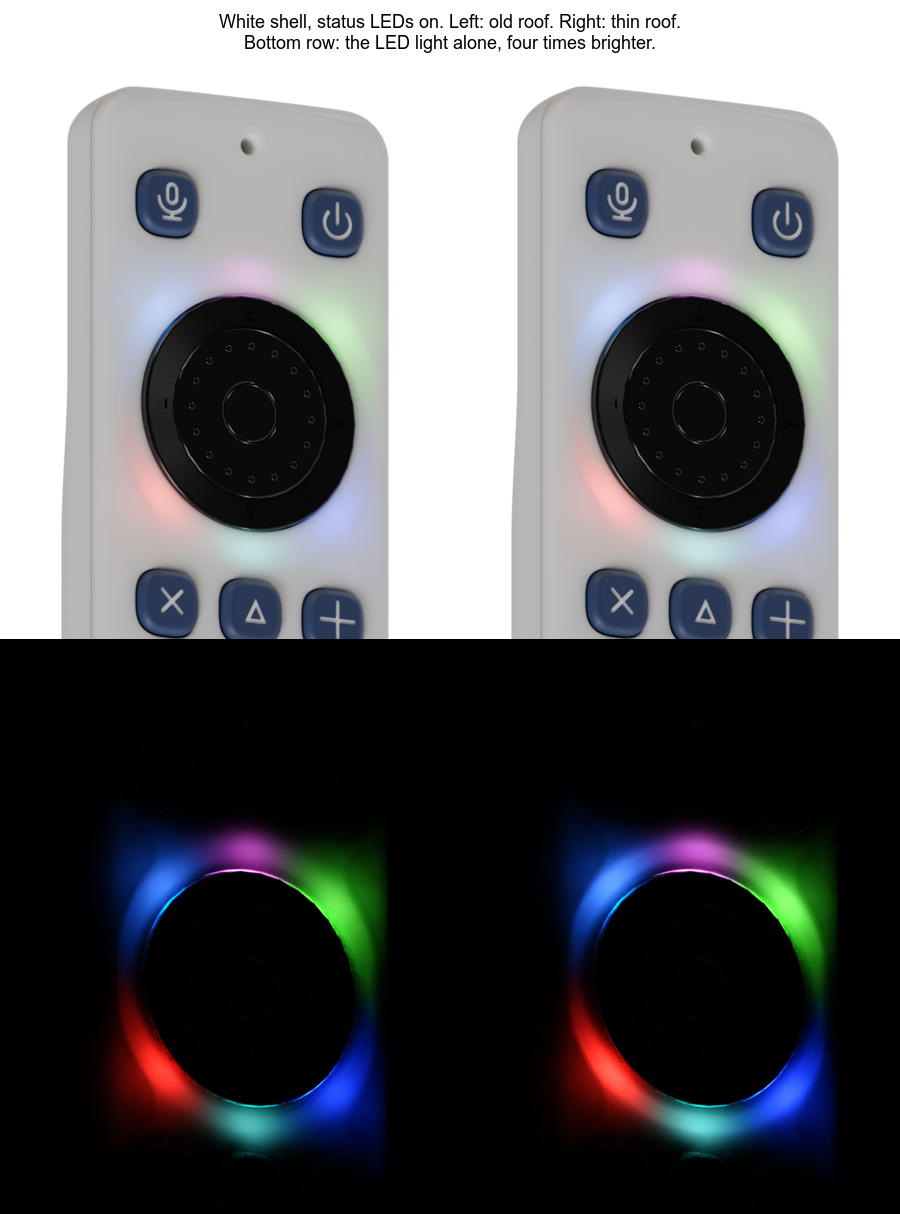
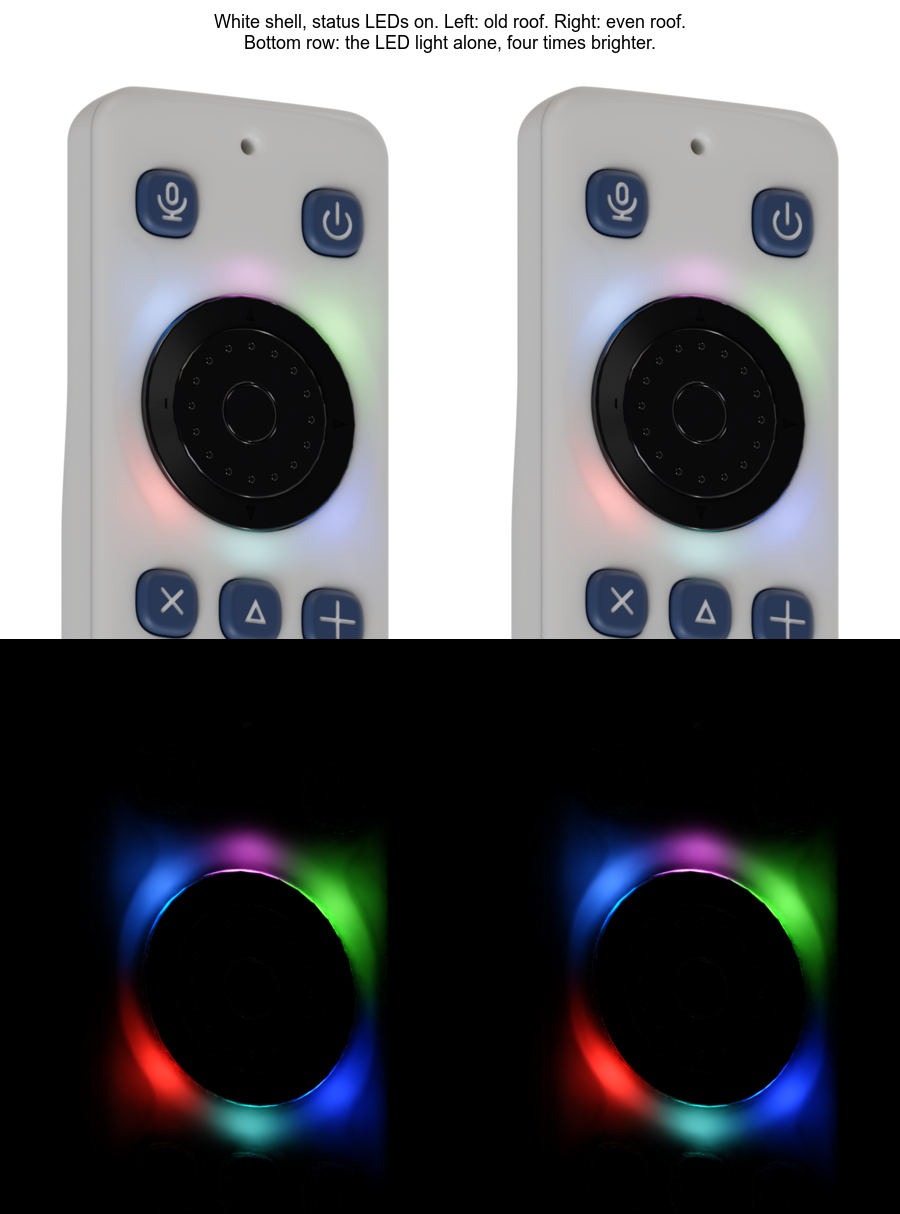
docs(case): re-render the white front and the old vs even roof glow comparison for the 0.8 mm LED ring roof, restamp the case renders it leaves unchanged

diff --git a/case/README.md b/case/README.md
@@ -161,12 +161,12 @@ A white filament also works. The roof over the LED ring channel is `LED_RING_FAC
 </p>
 <p align="center"><sub>White front with the status LEDs on</sub></p>
 
-A white shell scatters the light inside the plastic, so a thinner roof lets more LED light through. The comparison shows the glow through the old roof and through the thin roof.
+A white shell scatters the light inside the plastic, so the roof thickness sets how much LED light gets through. The comparison shows the glow through the old roof and through the even roof.
 
 <p align="center">
-  <img alt="Two white c6remote fronts with the status LEDs on. The front with the thin roof over the LED ring channel shows a brighter and more even ring. A second row shows only the LED light for each front" src="../docs/readme-assets/case-white-roof-glow.png" width="450">
+  <img alt="Two white c6remote fronts with the status LEDs on. The front with the even roof over the LED ring channel shows a slightly brighter ring nearer the wheel. A second row shows only the LED light for each front" src="../docs/readme-assets/case-white-roof-glow.png" width="450">
 </p>
-<p align="center"><sub>Old roof (left) and thin roof (right) in a white shell</sub></p>
+<p align="center"><sub>Old roof (left) and even roof (right) in a white shell</sub></p>
 
 The IR window material must transmit 940 nm infrared light. Test the selected filament with a physical remote.
 
